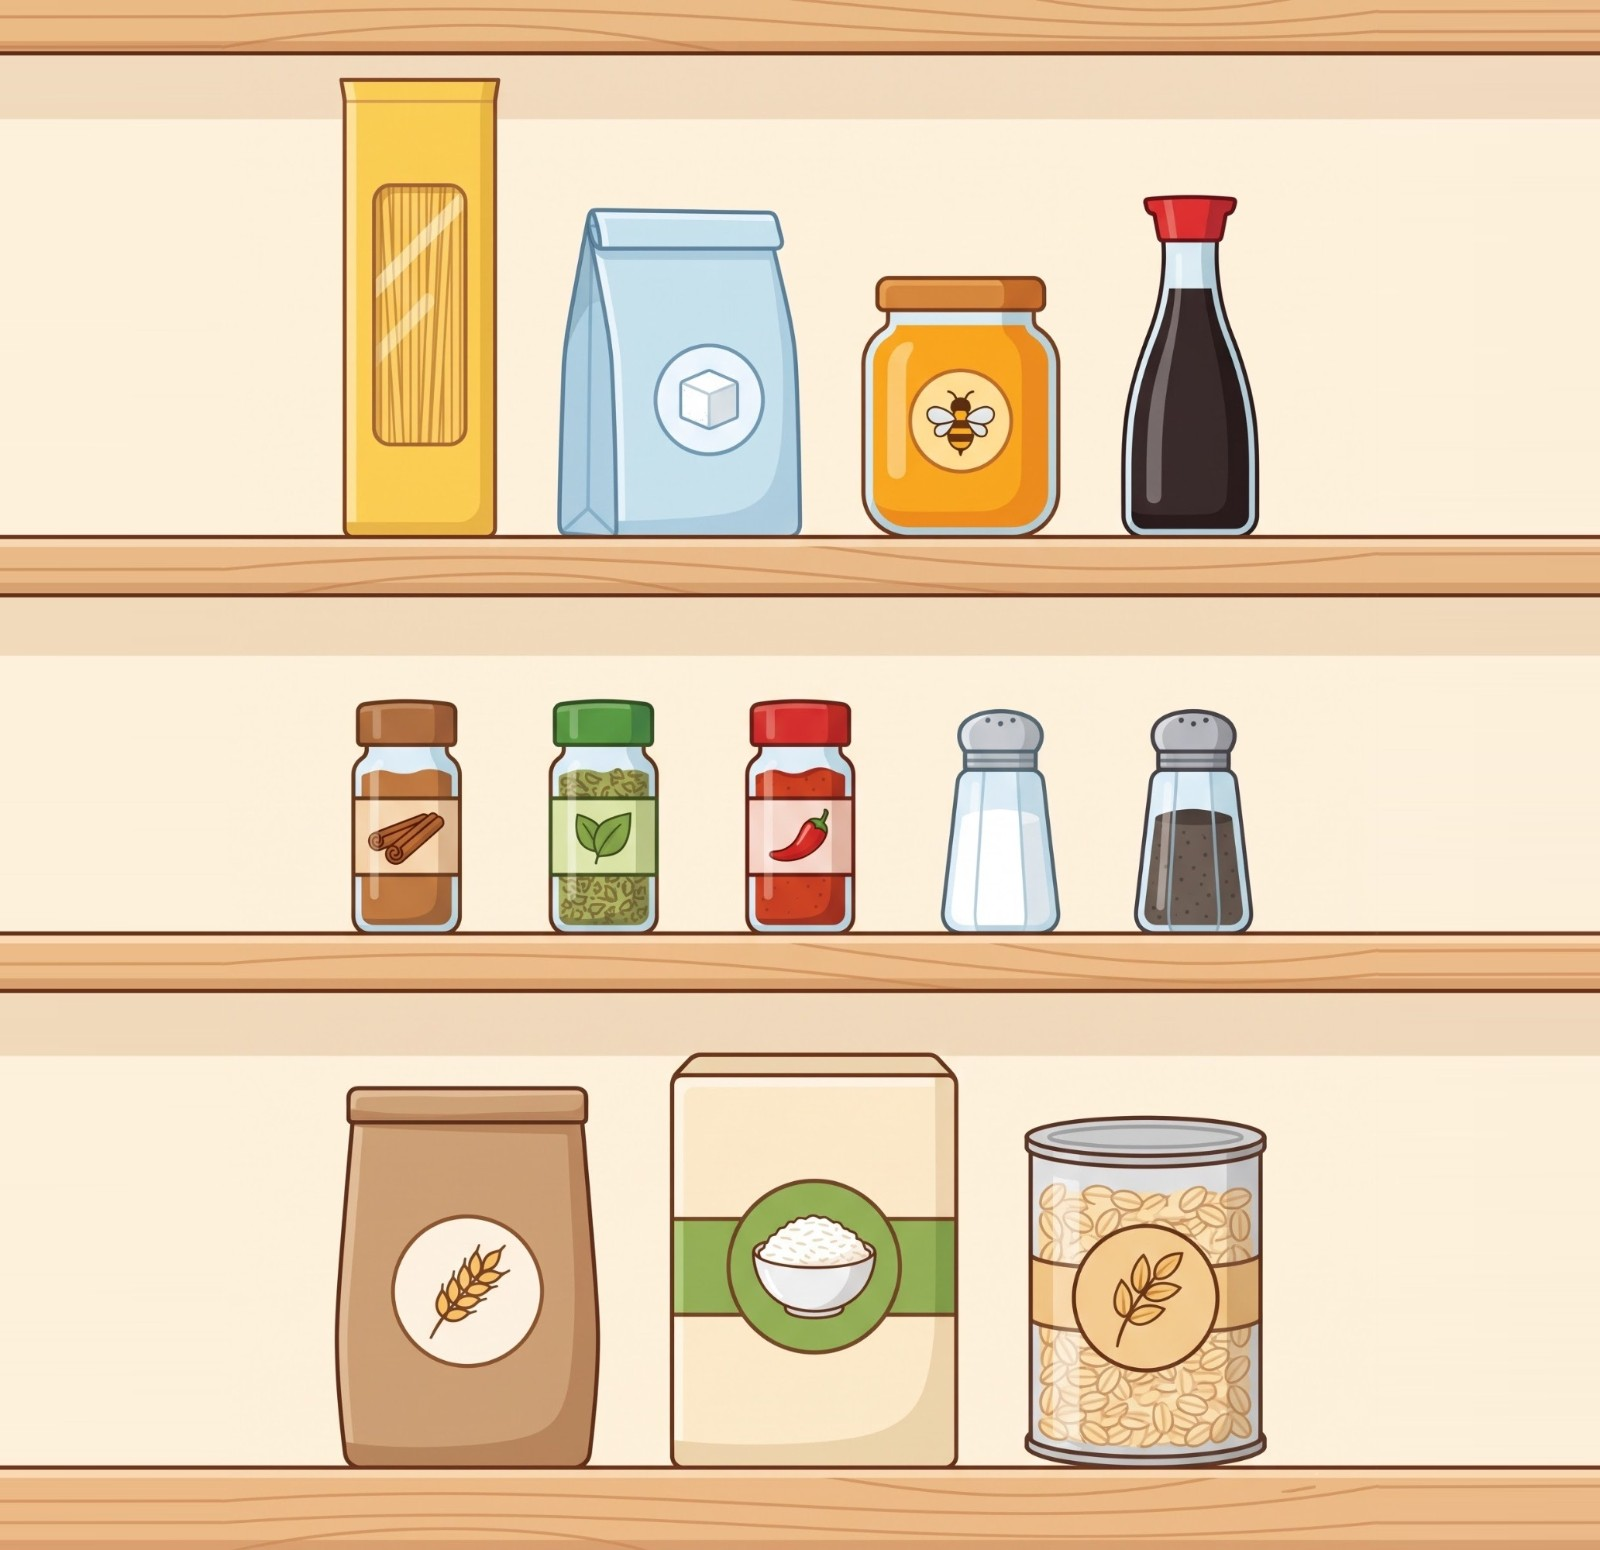
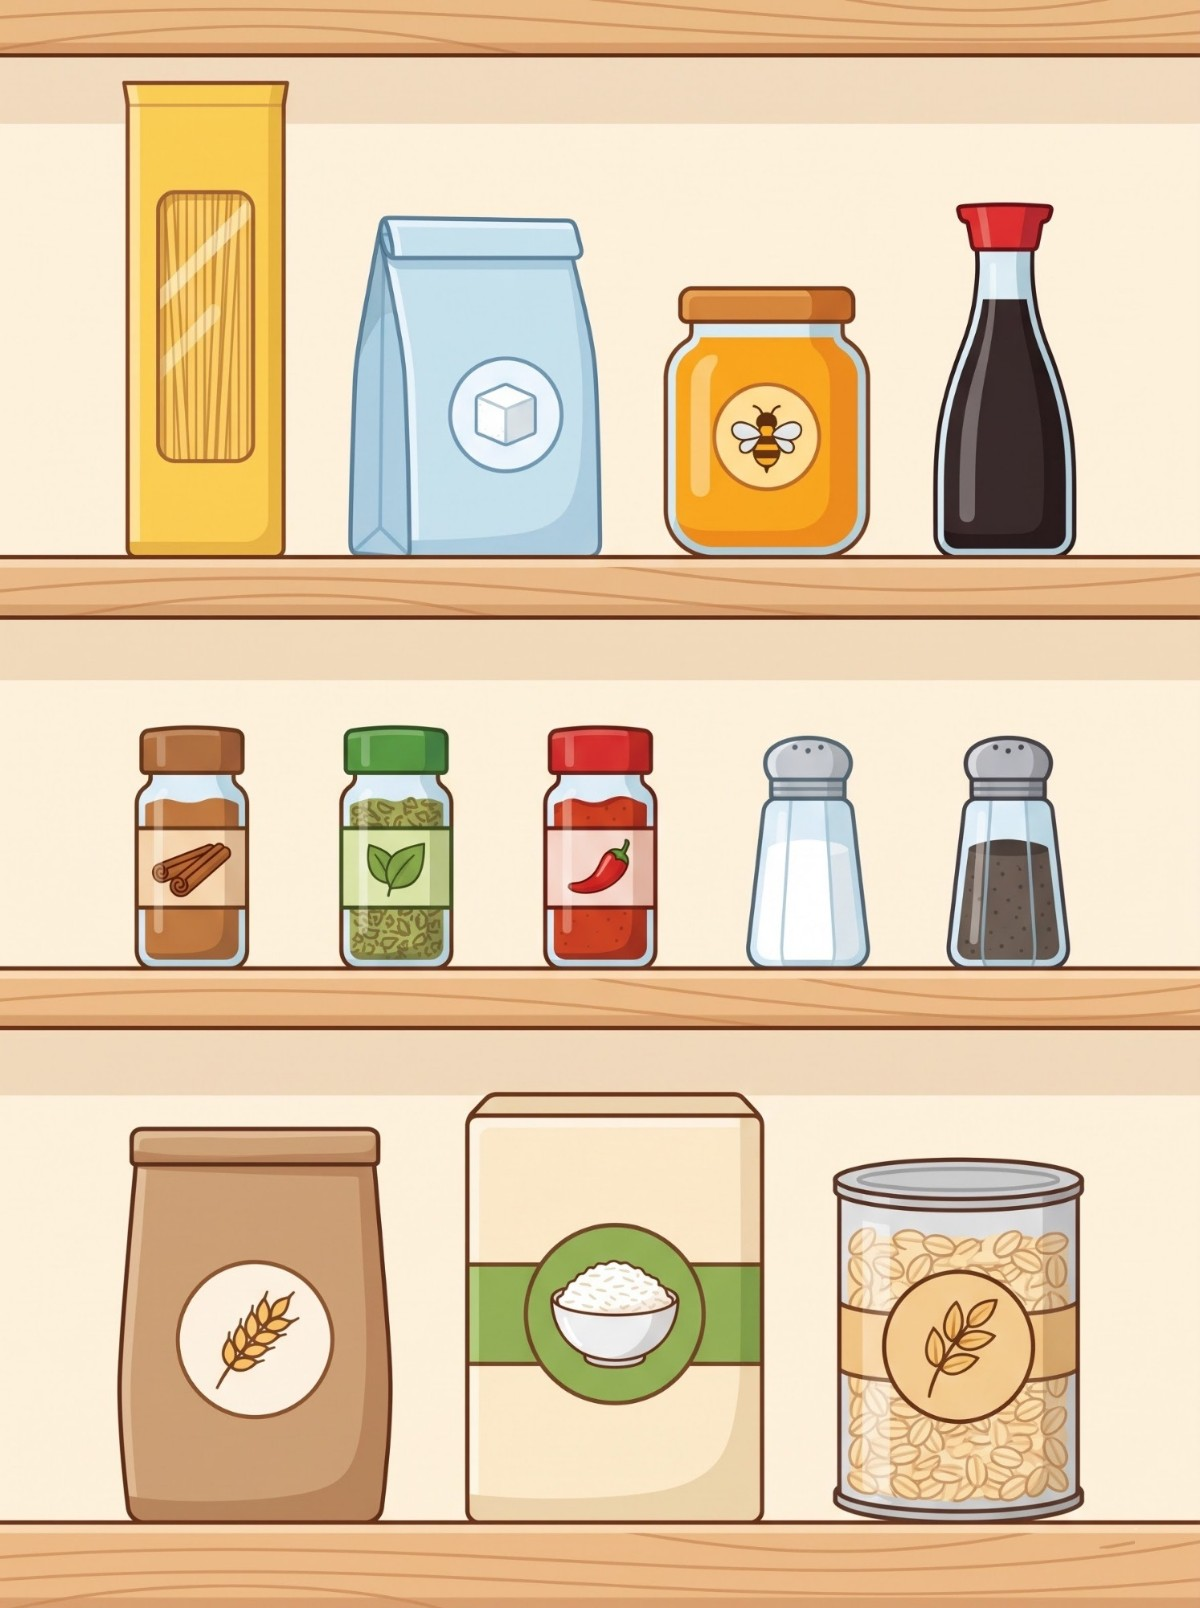
Onboarding: sample pantry in the original portrait format
The pantry picture was widened to roughly square so that it filled the old fixed card. Now that each
picture is shown whole, use the original 3:4 image (cleaned, 1200px wide) like the fridge and
re-measure the four label positions.

Claude-Session: https://claude.ai/code/session_01RtbBoobjW7cVhPz1v3aXm1

diff --git a/src/constants/samplePantry.js b/src/constants/samplePantry.js
@@ -33,13 +33,13 @@ export const SAMPLE_PANTRY_IMAGE = require("../../assets/sample-pantry.jpg");
 /**
  * Where to pin a label on the picture, as fractions of the image (x across, y down) at the
  * top-centre of the item. Only items with clear wall above them. Names come from the
- * pantryStaple.<id> translations. Measured on assets/sample-pantry.jpg (1600 x 1550).
+ * pantryStaple.<id> translations. Measured on assets/sample-pantry.jpg (1200 x 1608).
  */
 export const SAMPLE_PANTRY_TAGS = [
-  { id: "soy-sauce", x: 0.744, y: 0.126 },
-  { id: "sugar", x: 0.425, y: 0.135 },
-  { id: "paprika", x: 0.5, y: 0.4535 },
-  { id: "flour", x: 0.292, y: 0.703 },
+  { id: "soy-sauce", x: 0.837, y: 0.1265 },
+  { id: "sugar", x: 0.395, y: 0.135 },
+  { id: "paprika", x: 0.499, y: 0.4525 },
+  { id: "flour", x: 0.212, y: 0.7015 },
 ];
 
 export function buildSamplePantry(t) {
